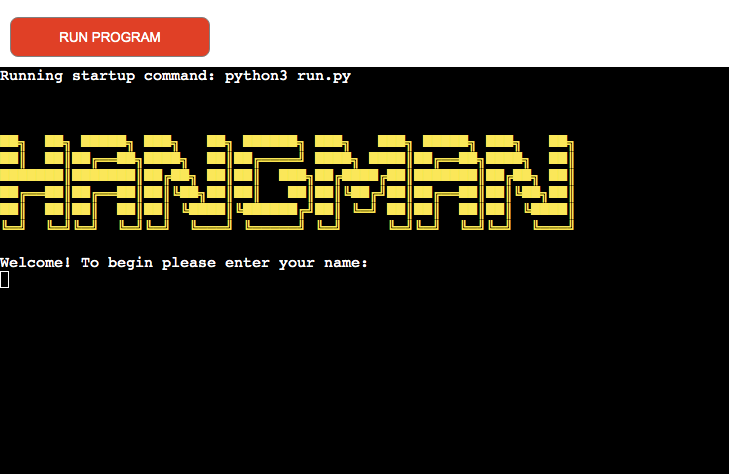
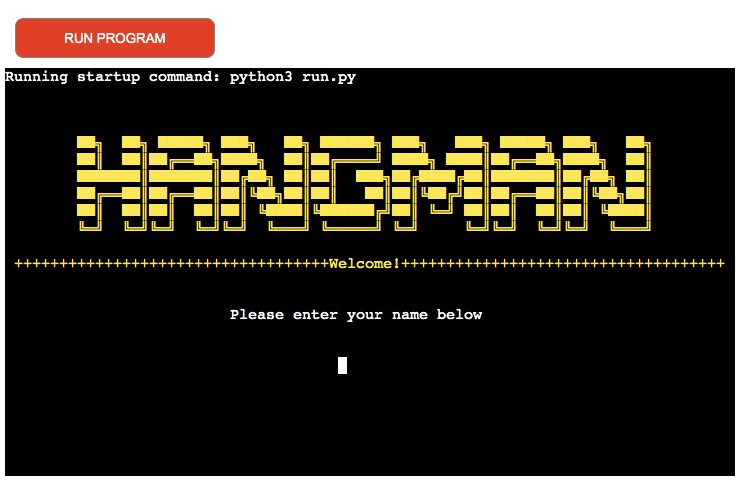
Add game screenshots and TOC to README

Changed region(s): [[0.0, 0.0295, 1.0, 1.0], [0.3018, 0.6203, 0.6639, 0.6498], [0.4527, 0.7089, 0.4829, 0.7679]]

diff --git a/run.py b/run.py
@@ -56,13 +56,13 @@ def intro():
             print("\n")
             print("{: ^79}".format(f"Hi {username},"))
             print("{: ^79}".format("You have 6 guesses to guess the word."))
-            input(" " * 25 + "Hit the enter key to begin")
+            input(" " * 25 + "Hit the enter key to begin \n\n")
             return username
 
     print("\n")
     print("{: ^79}".format(f"Hi {username},"))
     print("{: ^79}".format("You have 6 guesses to guess the word."))
-    input(" " * 25 + "Hit the enter key to begin")
+    input(" " * 25 + "Hit the enter key to begin \n\n")
     return username
 
 
@@ -85,6 +85,7 @@ def play(word):
     tries = 6
     print("\n")
     pr_green("{:+^79}".format("Let's play Hangman!"))
+    print("\n")
     pr_yellow(display_hangman(tries))
     print("\n")
     while not guessed and tries > 0:
@@ -120,6 +121,7 @@ def play(word):
                 guessed = True
                 word_completion = word
         else:
+            print("\n")
             pr_red("{: ^79}".format("Not a valid guess"))
         pr_yellow(display_hangman(tries))
         print("{: ^79}".format(word_completion))
@@ -253,5 +255,4 @@ def main():
         play(word)
 
 
-# if __name__ == "__main__":
 main()

diff --git a/README.md b/README.md
@@ -6,6 +6,33 @@
 
 **TABLE OF CONTENTS**
 
+- [**ABOUT PYFUN HANGMAN**](#about-pyfun-hangman)
+- [**LOGIC CHART**](#logic-chart)
+- [**USER STORIES**](#user-stories)
+- [**INTRO SCREEN**](#intro-screen)
+- [**ENTER NAME**](#enter-name)
+- [**LET'S PLAY HANGMAN**](#let-s-play-hangman)
+- [**INCORRECT GUESS**](#incorrect-guess)
+- [**ALREADY GUESSED**](#already-guessed)
+- [**INVALID GUESS**](#invalid-guess)
+- [**CORRECT GUESS**](#correct-guess)
+- [**WIN AND RELOAD**](#win-and-reload)
+- [**LOSE AND RELOAD**](#lose-and-reload)
+- [**FUTURE FEATURES**](#future-features)
+- [**LANGUAGES USED**](#languages-used)
+- [**RESOURCES**](#resources)
+- [**MANUAL TESTING**](#manual-testing)
+- [**AM I RESPONSIVE**](#am-i-responsive)
+- [**VALIDATION**](#validation)
+- [**BUGS**](#bugs)
+- [**KNOWN ISSUES**](#known-issues)
+- [**DEPLOYMENT**](#deployment)
+- [**HOW TO FORK**](#how-to-fork)
+- [**HOW TO CLONE**](#how-to-clone)
+- [**VERSION CONTROL**](#version-control)
+- [**CREDITS**](#credits)
+- [**ACKNOWLEDGEMENTS**](#--acknowledgements)
+
 <br>
 <br>
 <br>
@@ -47,6 +74,54 @@ drawing is displayed.
 # **INTRO SCREEN**
 
 ![hangman introscreen](readme-images/pyfun-hangman-intro-screen.png)
+
+<br>
+<br>
+<br>
+
+# **ENTER NAME**
+
+![hangman enter name](readme-images/pyfun-hangman-enter-name.png)
+
+<br>
+<br>
+<br>
+
+# **LET'S PLAY HANGMAN**
+
+![let's play hangman](readme-images/pyfun-hangman-letsplay.png)
+
+<br>
+<br>
+<br>
+
+# **INCORRECT GUESS**
+
+![hangman incorrect guess](readme-images/pyfun-hangman-incorrectguess.png)
+
+<br>
+<br>
+<br>
+
+# **ALREADY GUESSED**
+
+![hangman already guessed](readme-images/pyfun-hangman-alreadyguessed.png)
+
+<br>
+<br>
+<br>
+
+# **INVALID GUESS**
+
+![hangman invalid guess](readme-images/pyfun-hangman-notavalidguess.png)
+
+<br>
+<br>
+<br>
+
+# **CORRECT GUESS**
+
+![hangman correct guess](readme-images/pyfun-hangman-correctguess.png)
 
 <br>
 <br>
@@ -100,7 +175,7 @@ print with the option to try again.
 * **Am I Responsive** - to display the website on a range of devices
 * **Texteditor.com** - for ASCII text art
 * **Google Dev Tools** - for troubleshooting and testing fixes
-* **CI Python Linter** - to test Python code https://pep8ci.herokuapp.com/
+* **CI Python Linter** - to test Python code
 * **Slack, Stackoverflow, Youtube, Google, W3C Schools** - for help with troubleshooting errors
 * **Coolors.co** - to check colour contrast
 * **W3C Spell Checker** - to check website spelling
@@ -114,14 +189,15 @@ print with the option to try again.
 <br>
 
 # **MANUAL TESTING**
-* I manually tested the game, I checked win, lose, play again and quit stages.
+* I manually tested the game. I checked win, lose, play again and quit stages.
+* I tested incorrect, invalid, duplicate and correct guesses.
 
 <br>
 <br>
 <br>
 
 # **AM I RESPONSIVE**
-![am i responsive](#)
+![am i responsive](readme-images/pyfun-hangman-amiresponsive.png)
 
 <br>
 <br>
@@ -130,19 +206,16 @@ print with the option to try again.
 # **VALIDATION**
 **CI Python Linter**
 
-![CI Python Linter validation](#)
+![CI Python Linter validation](readme-images/pyfun-hangman-ci-pyhton-linter.png)
 
 <br>
 <br>
 <br>
 
-**Lighthouse**
+**PageSpeed Insights**
 
-![lighthouse1](readmeimages/lighthouse.png)
-![lighthouse2](readmeimages/lighthouse-performance.png)
-![lighthouse3](readmeimages/lighthouse-access.png)
-![lighthouse4](readmeimages/lighthouse-bp.png)
-![lighthouse5](readmeimages/lighthouse-seo.png)
+![pagespeed insight mobile](readme-images/pyfun-hangman-pagespeedinsights-mobile.png)
+![pagespeed insight desktop](readme-images/pyfun-hangman-pagespeedinsights-desktop.png)
 
 <br>
 <br>
@@ -170,7 +243,7 @@ print with the option to try again.
 
 # **KNOWN ISSUES**
 
-* None so far
+* 
 
 <br>
 <br>
@@ -254,57 +327,3 @@ I used GITPOD for version control software. Regular git add ., git commit -m, an
 # **ACKNOWLEDGEMENTS**
 
 * Thanks as always to my Code Institute Mentor, Mitko Backvarov, for his support and encouragement.
-
-
-
-
-
-
-
-
-
-
-
-
-
-
-
-
-
-
-
-
-
-
-
-![CI logo](https://codeinstitute.s3.amazonaws.com/fullstack/ci_logo_small.png)
-
-Welcome frapplecat,
-
-This is the Code Institute student template for deploying your third portfolio project, the Python command-line project. The last update to this file was: **August 17, 2021**
-
-## Reminders
-
-* Your code must be placed in the `run.py` file
-* Your dependencies must be placed in the `requirements.txt` file
-* Do not edit any of the other files or your code may not deploy properly
-
-## Creating the Heroku app
-
-When you create the app, you will need to add two buildpacks from the _Settings_ tab. The ordering is as follows:
-
-1. `heroku/python`
-2. `heroku/nodejs`
-
-You must then create a _Config Var_ called `PORT`. Set this to `8000`
-
-If you have credentials, such as in the Love Sandwiches project, you must create another _Config Var_ called `CREDS` and paste the JSON into the value field.
-
-Connect your GitHub repository and deploy as normal.
-
-## Constraints
-
-The deployment terminal is set to 80 columns by 24 rows. That means that each line of text needs to be 80 characters or less otherwise it will be wrapped onto a second line.
-
------
-Happy coding!
